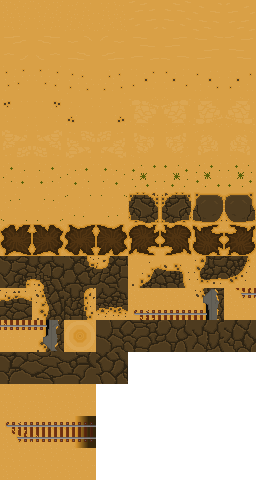
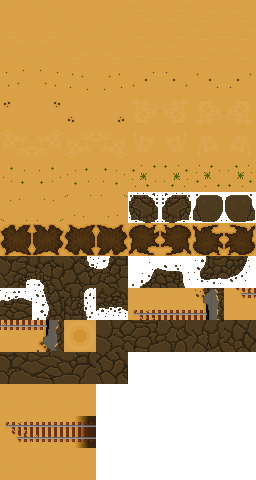
experiment

diff --git a/gamescreen.go b/gamescreen.go
@@ -45,6 +45,7 @@ type GameScreen struct {
 	Level         int
 	Background    *ebiten.Image
 	Foreground    *ebiten.Image
+	Shade         *ebiten.Image
 	Camera        *camera.Camera
 	Sprites       map[SpriteType]*SpriteSheet
 	ZombieSprites []*SpriteSheet
@@ -79,21 +80,35 @@ func NewGameScreen(game *Game) {
 	level := g.LDTKProject.Levels[g.Level]
 
 	bg := ebiten.NewImage(level.Width, level.Height)
-	bg.Fill(level.BGColor)
+	// bg.Fill(level.BGColor)
 	fg := ebiten.NewImage(level.Width, level.Height)
+	shade := ebiten.NewImage(level.Width, level.Height)
 
 	// Render map
 	g.TileRenderer.Render(level)
 	for _, layer := range g.TileRenderer.RenderedLayers {
 		log.Println("Pre-drawing layer:", layer.Layer.Identifier)
-		if layer.Layer.Identifier == "Treetops" {
+		switch layer.Layer.Identifier {
+		case "Desert":
 			fg.DrawImage(layer.Image, &ebiten.DrawImageOptions{})
-		} else {
+			op := &ebiten.DrawImageOptions{}
+			op.ColorM.Scale(0.5, 0.5, 0.5, 0.25)
+			// op.GeoM.Translate(0, -16)
+			op.GeoM.Scale(1, 1.1)
+			shade.DrawImage(layer.Image, op)
+			op.GeoM.Scale(1, 1.1)
+			shade.DrawImage(layer.Image, op)
+			op.GeoM.Scale(1, 1.1)
+			shade.DrawImage(layer.Image, op)
+		case "Treetops":
+			fg.DrawImage(layer.Image, &ebiten.DrawImageOptions{})
+		default:
 			bg.DrawImage(layer.Image, &ebiten.DrawImageOptions{})
 		}
 	}
 	g.Background = bg
 	g.Foreground = fg
+	g.Shade = shade
 
 	// Create space for collision detection
 	g.Space = resolv.NewSpace(level.Width, level.Height, 16, 16)
@@ -353,6 +368,12 @@ func (g *GameScreen) Draw(screen *ebiten.Image) {
 
 	// Zombies
 	g.Zombies.Draw(g)
+
+	// Shadows cast by the walls onto the ground and entities
+	g.Camera.Surface.DrawImage(
+		g.Shade,
+		g.Camera.GetTranslation(&ebiten.DrawImageOptions{}, 0, 0),
+	)
 
 	// Tree tops etc. high-up stuff need to be drawn above the entities
 	g.Camera.Surface.DrawImage(
